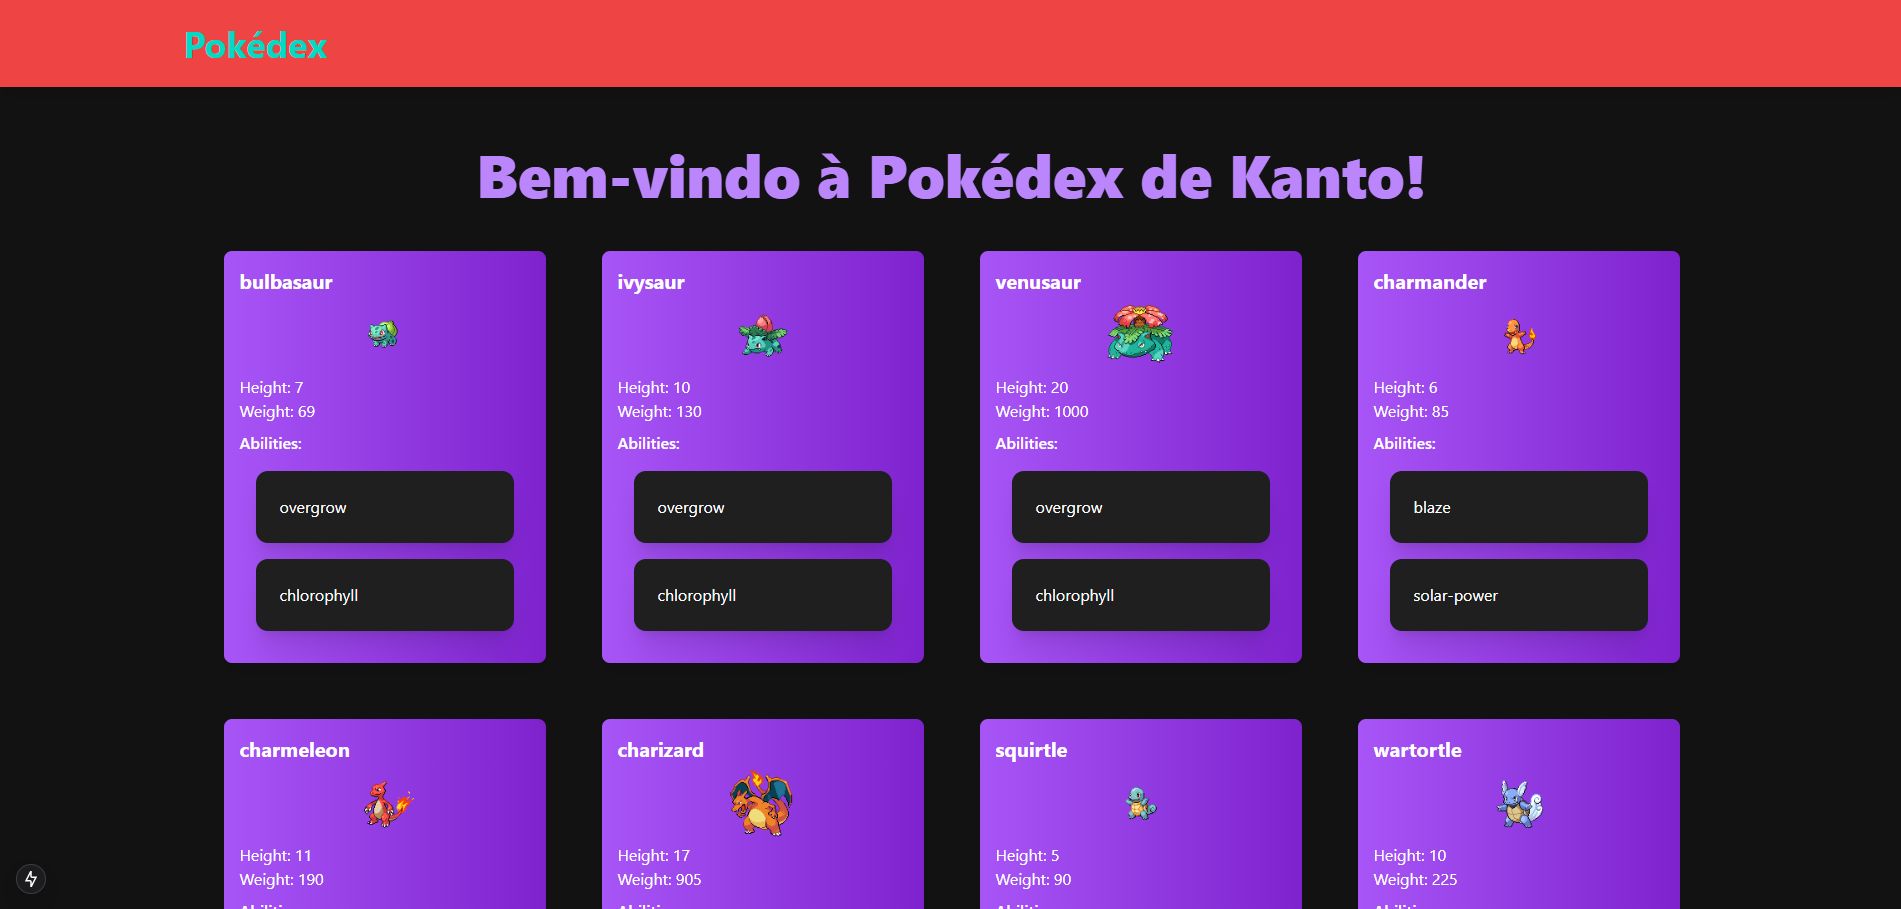
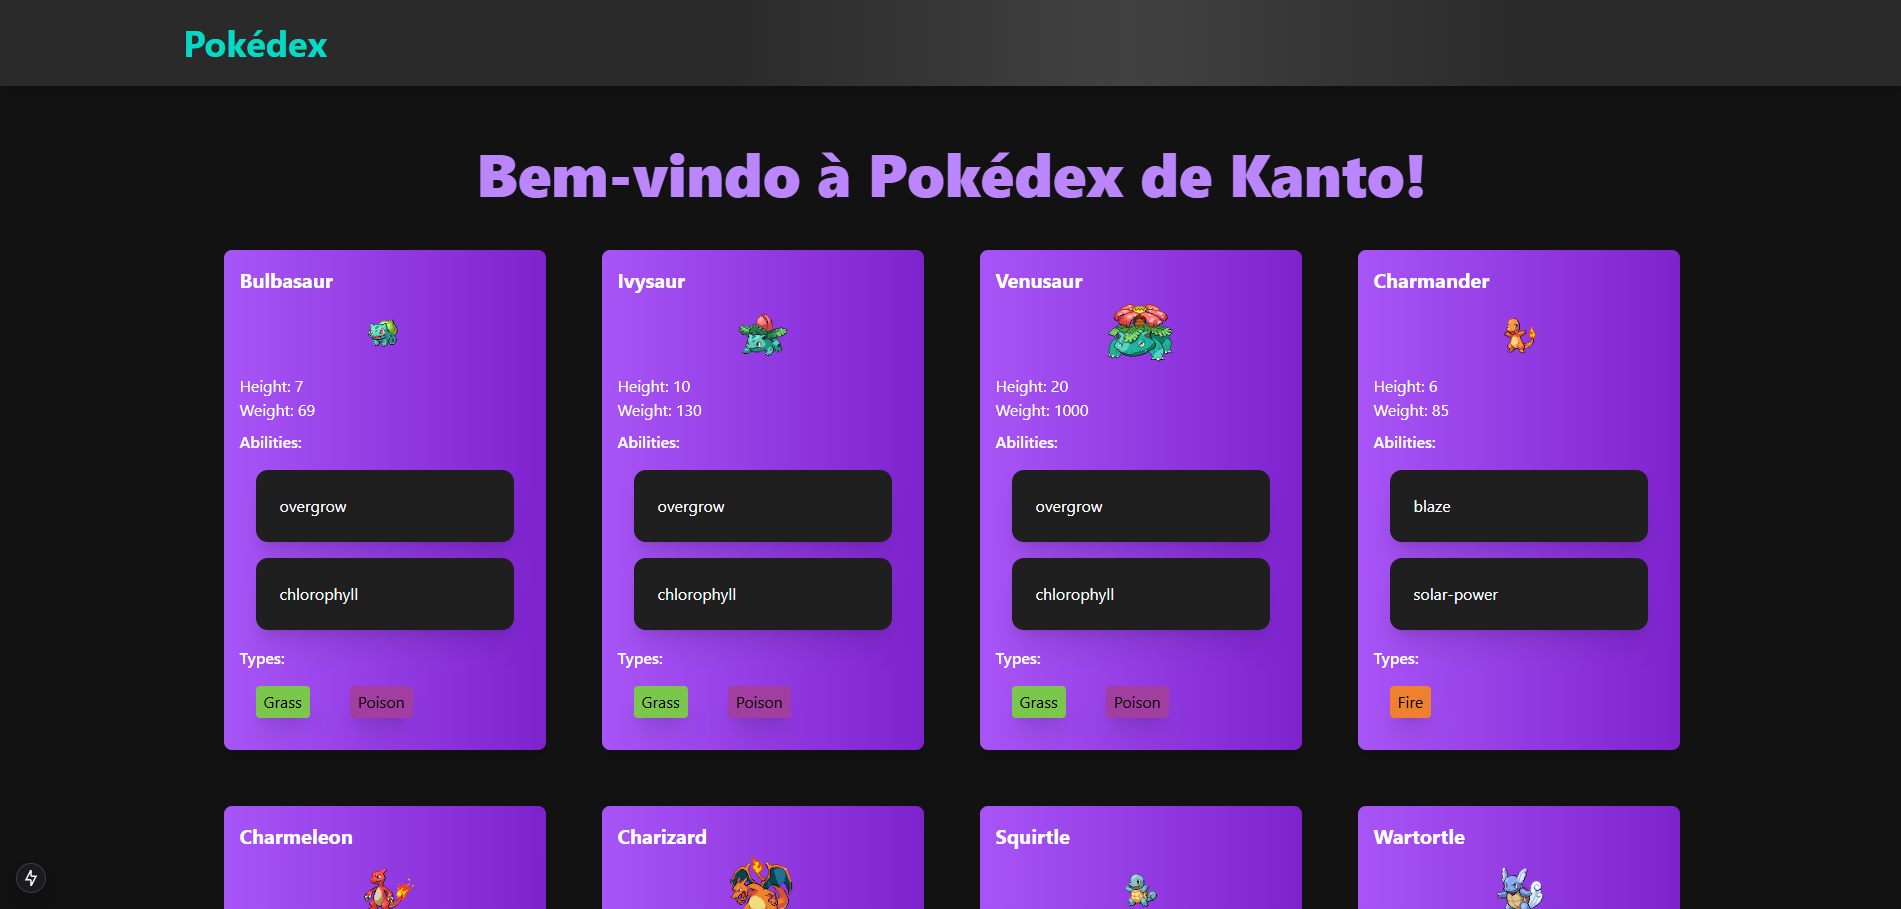
✨ adiciona efeitos de cintilação e cores personalizadas para tipos de Pokémon na lista e detalhes

diff --git a/pokedex/src/components/PokemonList.tsx b/pokedex/src/components/PokemonList.tsx
@@ -3,6 +3,31 @@
 import axios from 'axios';
 import { useEffect, useState } from 'react';
 
+const capitalizeFirstLetter = (string) => {
+  return string.charAt(0).toUpperCase() + string.slice(1);
+};
+
+const typeColors = {
+  normal: 'bg-normal',
+  fire: 'bg-fire',
+  water: 'bg-water',
+  grass: 'bg-grass',
+  electric: 'bg-electric',
+  ice: 'bg-ice',
+  fighting: 'bg-fighting',
+  poison: 'bg-poison',
+  ground: 'bg-ground',
+  flying: 'bg-flying',
+  psychic: 'bg-psychic',
+  bug: 'bg-bug',
+  rock: 'bg-rock',
+  ghost: 'bg-ghost',
+  dragon: 'bg-dragon',
+  dark: 'bg-dark',
+  steel: 'bg-steel',
+  fairy: 'bg-fairy',
+};
+
 const PokemonList = () => {
   const [pokemonList, setPokemonList] = useState([]);
 
@@ -26,7 +51,7 @@ const PokemonList = () => {
       {pokemonList.map((pokemon, index) => (
         <li key={index} className="bg-gradient-to-r from-purple-500 to-purple-700 text-white p-4 rounded-lg shadow-lg hover:shadow-2xl transition-shadow duration-300 dark:from-dark-purple-500 dark:to-dark-purple-700 dark:text-dark-white">
           <div>
-            <h2 className="text-xl font-bold">{pokemon.name}</h2>
+            <h2 className="text-xl font-bold">{capitalizeFirstLetter(pokemon.name)}</h2>
             {pokemon.sprites?.front_default && (
               <img src={pokemon.sprites.front_default} alt={pokemon.name} className="w-20 h-20 mx-auto" />
             )}
@@ -36,6 +61,14 @@ const PokemonList = () => {
             <ul>
               {pokemon.abilities.map((ability, index) => (
                 <li key={index}>{ability.ability.name}</li>
+              ))}
+            </ul>
+            <h3 className="font-semibold mt-2">Types:</h3>
+            <ul className="flex flex-wrap gap-2">
+              {pokemon.types.map((typeInfo, index) => (
+                <li key={index} className={`${typeColors[typeInfo.type.name]} text-black px-2 py-1 rounded`}>
+                  {capitalizeFirstLetter(typeInfo.type.name)}
+                </li>
               ))}
             </ul>
           </div>

diff --git a/pokedex/src/app/globals.css b/pokedex/src/app/globals.css
@@ -31,6 +31,22 @@ a {
   @apply text-secondary no-underline hover:text-accent;
 }
 
+/* Efeito cintilante */
+@keyframes shimmer {
+  0% {
+    background-position: -1000px 0;
+  }
+  100% {
+    background-position: 1000px 0;
+  }
+}
+
+.shimmer {
+  background: linear-gradient(to right, rgba(255, 255, 255, 0.1) 0%, rgba(255, 255, 255, 0.2) 20%, rgba(255, 255, 255, 0.1) 40%, rgba(255, 255, 255, 0.1) 100%);
+  background-size: 2000px 100%;
+  animation: shimmer 2s infinite linear;
+}
+
 /* Definir classes personalizadas para o tema escuro */
 @layer utilities {
   .bg-background {
@@ -65,4 +81,32 @@ a {
     --tw-text-opacity: 1;
     color: rgba(207, 102, 121, var(--tw-text-opacity));
   }
+  .bg-secondary {
+    --tw-bg-opacity: 1;
+    background-color: rgba(200, 28, 98, var(--tw-bg-opacity));
+  }
+  .text-black {
+    --tw-text-opacity: 1;
+    color: rgba(0, 0, 0, var(--tw-text-opacity));
+  }
+
+  /* Estilos personalizados para as cores dos tipos */
+  .bg-normal { background-color: #A8A77A; }
+  .bg-fire { background-color: #EE8130; }
+  .bg-water { background-color: #6390F0; }
+  .bg-grass { background-color: #7AC74C; }
+  .bg-electric { background-color: #F7D02C; }
+  .bg-ice { background-color: #96D9D6; }
+  .bg-fighting { background-color: #C22E28; }
+  .bg-poison { background-color: #A33EA1; }
+  .bg-ground { background-color: #E2BF65; }
+  .bg-flying { background-color: #A98FF3; }
+  .bg-psychic { background-color: #F95587; }
+  .bg-bug { background-color: #A6B91A; }
+  .bg-rock { background-color: #B6A136; }
+  .bg-ghost { background-color: #735797; }
+  .bg-dragon { background-color: #6F35FC; }
+  .bg-dark { background-color: #705746; }
+  .bg-steel { background-color: #B7B7CE; }
+  .bg-fairy { background-color: #D685AD; }
 }

diff --git a/pokedex/src/components/PokemonDetail.tsx b/pokedex/src/components/PokemonDetail.tsx
@@ -4,6 +4,31 @@ import axios from 'axios';
 import { useEffect, useState } from 'react';
 import { useParams } from 'next/navigation';
 
+const capitalizeFirstLetter = (string) => {
+  return string.charAt(0).toUpperCase() + string.slice(1);
+};
+
+const typeColors = {
+  normal: 'bg-normal',
+  fire: 'bg-fire',
+  water: 'bg-water',
+  grass: 'bg-grass',
+  electric: 'bg-electric',
+  ice: 'bg-ice',
+  fighting: 'bg-fighting',
+  poison: 'bg-poison',
+  ground: 'bg-ground',
+  flying: 'bg-flying',
+  psychic: 'bg-psychic',
+  bug: 'bg-bug',
+  rock: 'bg-rock',
+  ghost: 'bg-ghost',
+  dragon: 'bg-dragon',
+  dark: 'bg-dark',
+  steel: 'bg-steel',
+  fairy: 'bg-fairy',
+};
+
 const PokemonDetail = () => {
   const params = useParams();
   const { id } = params;
@@ -26,7 +51,7 @@ const PokemonDetail = () => {
 
   return (
     <div>
-      <h1>{pokemon.name}</h1>
+      <h1>{capitalizeFirstLetter(pokemon.name)}</h1>
       <img src={pokemon.sprites.front_default} alt={pokemon.name} />
       <p>Height: {pokemon.height}</p>
       <p>Weight: {pokemon.weight}</p>
@@ -34,6 +59,14 @@ const PokemonDetail = () => {
       <ul>
         {pokemon.abilities.map((ability, index) => (
           <li key={index}>{ability.ability.name}</li>
+        ))}
+      </ul>
+      <h2>Types:</h2>
+      <ul className="flex flex-wrap gap-2">
+        {pokemon.types.map((typeInfo, index) => (
+          <li key={index} className={`${typeColors[typeInfo.type.name]} text-black px-2 py-1 rounded`}>
+            {capitalizeFirstLetter(typeInfo.type.name)}
+          </li>
         ))}
       </ul>
     </div>

diff --git a/pokedex/src/components/Header.tsx b/pokedex/src/components/Header.tsx
@@ -4,7 +4,7 @@ import { motion } from 'framer-motion';
 const Header = () => {
   return (
     <motion.header
-      className="bg-red-500 p-6 shadow-lg dark:bg-dark-red-500"
+      className="bg-red-500 p-6 shadow-lg dark:bg-dark-red-500 shimmer"
       initial={{ y: -50 }}
       animate={{ y: 0 }}
       transition={{ duration: 0.5 }}
